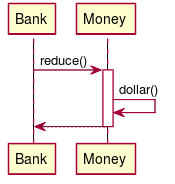
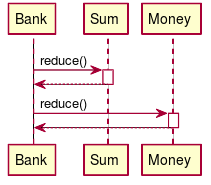
第１３章 実装を導くテスト Step9

Changed region(s): [[0.0286, 0.0, 0.9714, 0.9511]]

diff --git a/src/main/java/tdd/money/Bank.java b/src/main/java/tdd/money/Bank.java
@@ -2,6 +2,8 @@ package tdd.money;
 
 class Bank {
     Money reduce(Expression source, String to) {
-        return Money.dollar(10);
+        Sum sum = (Sum) source;
+        int amount = sum.augend.amount + sum.addend.amount;
+        return new Money(amount, to);
     }
 }

diff --git a/docs/TDD.md b/docs/TDD.md
@@ -45,11 +45,11 @@
 ### クラス図
   
 
-![](./assets/0285dfa24ee25b18e00bb369b57da6820.png?0.5656340345015531)  
+![](./assets/0285dfa24ee25b18e00bb369b57da6820.png?0.5630687636295266)  
 ### シーケンス図
   
 
-![](./assets/0285dfa24ee25b18e00bb369b57da6821.png?0.11461432958551221)  
+![](./assets/0285dfa24ee25b18e00bb369b57da6821.png?0.4538497689814309)  
   
 ## コード
   
@@ -159,7 +159,9 @@ package tdd.money;
   
 class Bank {
     Money reduce(Expression source, String to) {
-        return Money.dollar(10);
+        Sum sum = (Sum) source;
+        int amount = sum.augend.amount + sum.addend.amount;
+        return new Money(amount, to);
     }
 }
   

diff --git a/docs/src/TDD.md b/docs/src/TDD.md
@@ -70,13 +70,17 @@ class Sum {
 Expression <|.. Money
 Expression <|.. Sum
 Money -> Sum
-Bank -> Money
+Bank --> Money
+Bank --> Sum
 ```
 ### シーケンス図
 ```puml
+Bank -> Sum :reduce()
+activate Sum  
+  Bank <-- Sum  
+deactivate Sum
 Bank -> Money :reduce()
 activate Money
-  Money -> Money :dollar()
   Bank <-- Money
 deactivate Money
 ```
